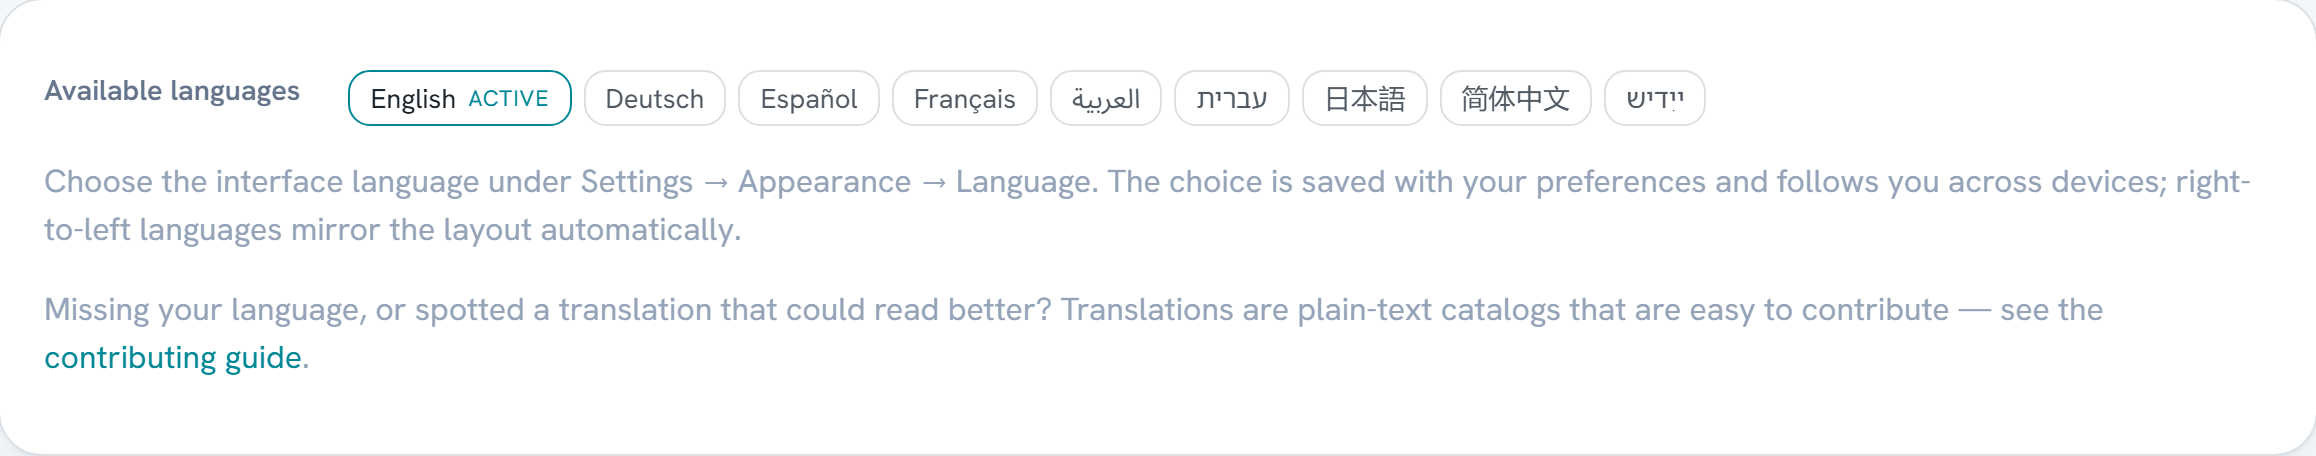
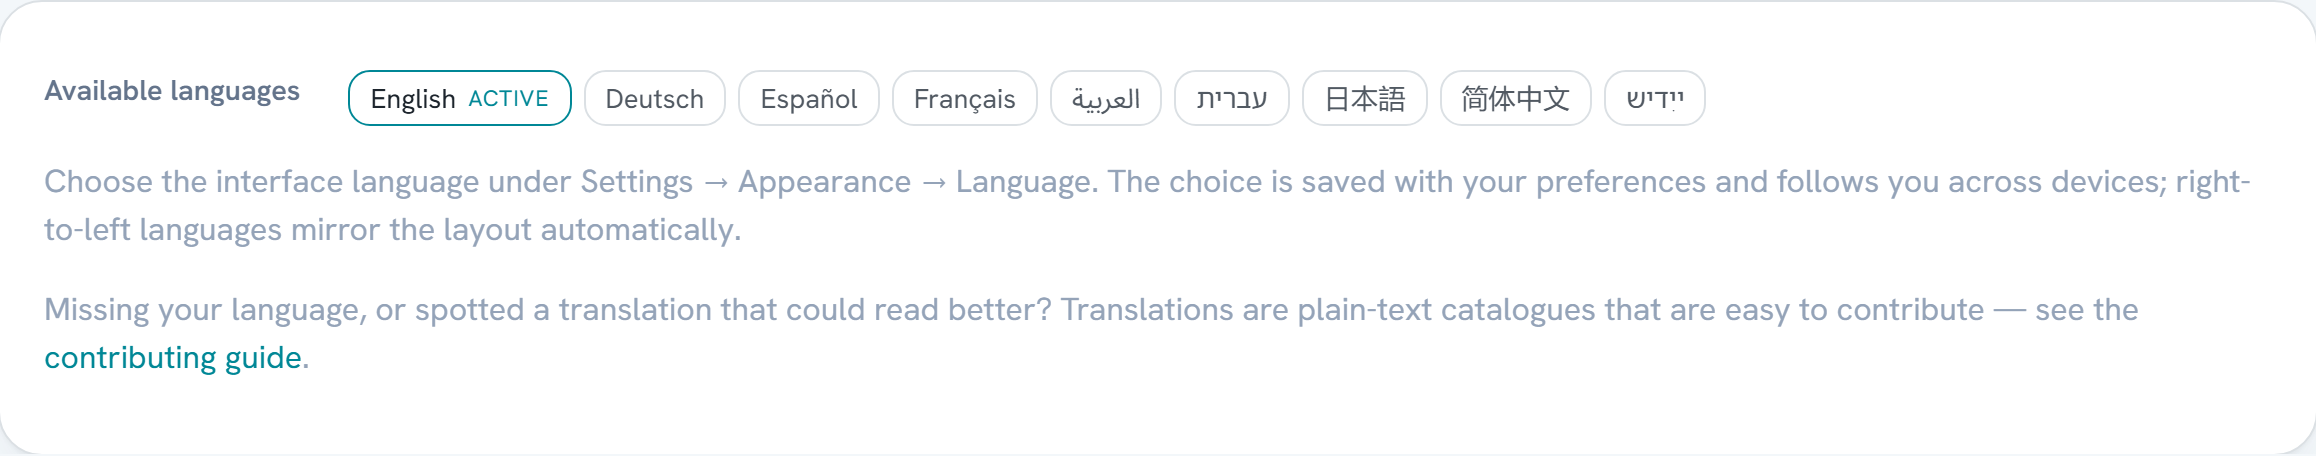
fix(webui): use British spelling in the English catalogue
The English catalogue mixed spellings: "Accent colour" and "Power centre"
sat beside "Power centers". The family's source spelling is British
English, so the remaining American forms in en.js are respelt:

- diag.power_centers: Power centers -> Power centres
- diag.serial_port_utilization / diag.bandwidth_utilization:
  Utilization -> Utilisation
- diag.deserialize: Deserialize -> Deserialise
- about.language_contribute_html: catalogs -> catalogues

No other visible text in en.js or index.html used an American form;
"Program" is the controller's own menu term and is left as the panel
shows it. The other catalogues are untouched (no meaning changed), so
key and placeholder parity is unaffected.

The convention is recorded in docs/i18n.md (Key conventions) and
CONTRIBUTING.md, and the About language-card screenshot, which shows the
respelt sentence, is regenerated.

Changed region(s): [[0.0, 0.0, 0.9948, 0.0307], [0.6528, 0.6447, 0.9326, 0.7061]]

diff --git a/assets/web/i18n/en.js b/assets/web/i18n/en.js
@@ -216,7 +216,7 @@
         'diag.passed': 'Passed',
         'diag.failed': 'Failed',
         'diag.auxiliaries': 'Auxiliaries',
-        'diag.power_centers': 'Power centers',
+        'diag.power_centers': 'Power centres',
         'diag.equipment': 'Equipment',
         'diag.status': 'Status',
         'diag.devices': 'Devices',
@@ -225,12 +225,12 @@
         'diag.enabled': 'Enabled',
         'diag.running': 'Running',
         'diag.connected': 'Connected',
-        'diag.serial_port_utilization': 'Serial Port Utilization',
+        'diag.serial_port_utilization': 'Serial Port Utilisation',
         'diag.read_total': 'Read Total',
         'diag.write_total': 'Write Total',
         'diag.read_1s_avg': 'Read 1s Avg',
         'diag.write_1s_avg': 'Write 1s Avg',
-        'diag.bandwidth_utilization': 'Bandwidth Utilization',
+        'diag.bandwidth_utilization': 'Bandwidth Utilisation',
         'diag.read': 'Read',
         'diag.write': 'Write',
         'diag.toggle_read_series': 'Toggle the Read series',
@@ -249,7 +249,7 @@
         'diag.waiting_data': 'Waiting for data...',
         'diag.message_errors': 'Message Errors',
         'diag.checksum': 'Checksum',
-        'diag.deserialize': 'Deserialize',
+        'diag.deserialize': 'Deserialise',
         'diag.invalid_packet': 'Invalid Packet',
         'diag.generator': 'Generator',
         'diag.overlapping': 'Overlapping',
@@ -761,7 +761,7 @@
         'about.available_languages': 'Available languages',
         'about.lang_active': 'Active',
         'about.language_how': 'Choose the interface language under {settings} → {appearance} → {language}. The choice is saved with your preferences and follows you across devices; right-to-left languages mirror the layout automatically.',
-        'about.language_contribute_html': 'Missing your language, or spotted a translation that could read better? Translations are plain-text catalogs that are easy to contribute — see the <a href="https://iainchesworthlabs.github.io/aqualink-automate/CONTRIBUTING/#contributing-translations" target="_blank" rel="noopener noreferrer">contributing guide</a>.',
+        'about.language_contribute_html': 'Missing your language, or spotted a translation that could read better? Translations are plain-text catalogues that are easy to contribute — see the <a href="https://iainchesworthlabs.github.io/aqualink-automate/CONTRIBUTING/#contributing-translations" target="_blank" rel="noopener noreferrer">contributing guide</a>.',
         'about.copyright': 'Copyright',
         'about.licence': 'Licence',
         'about.source_code': 'Source code',

diff --git a/CHANGELOG.md b/CHANGELOG.md
@@ -14,6 +14,10 @@ See [docs/releasing.md](docs/releasing.md) for how releases and version numbers 
 
 - **The About page now states the licence and copyright, and lists everything the web UI includes from other projects.** About shows the application's licence (GNU General Public License v3.0, naming `LICENSE.txt`, with a link to the source code) and its copyright line, and a new **Licences** section lists the bundled fonts (Bricolage Grotesque, Hanken Grotesk, Noto Sans Arabic, Noto Sans Hebrew), the vendored scripts (Alpine.js, Chart.js, chartjs-adapter-date-fns with the date-fns it bundles, QRCode.js) and the Feather icon paths, each with its version, copyright line and licence, and the full SIL Open Font License and MIT texts one click away. The list is rendered from a single data file, `assets/web/scripts/config/third-party-notices.js`, and an e2e test fails if a vendored file or declared font family has no entry. The new strings are machine-drafted in the eight non-English catalogues. See [docs/usage-and-api.md](docs/usage-and-api.md#about-licence-and-third-party-notices).
 
+### Changed
+
+- **The English source text uses British spelling throughout.** "Power centers", "catalogs", "Deserialize" and "Utilization" (Serial Port and Bandwidth) are now "Power centres", "catalogues", "Deserialise" and "Utilisation", matching the "colour" and "centre" already used elsewhere in the catalogue. The other catalogues are unchanged. See [docs/i18n.md](docs/i18n.md#key-conventions).
+
 ## [0.17.0-beta.1] - 2026-10-13
 
 ### Added

diff --git a/docs/i18n.md b/docs/i18n.md
@@ -114,6 +114,12 @@ in `fonts.css` has no entry.
   `about.*`, plus shared `common.*`, `status.*`, `cmd.*`, `alert.*`,
   `toast.*`, `time.*`, `tier.*`, `chem.*`, `swg_health.*`, `swg_reason.*`,
   `day.*`.
+- **English source text is written in British English** — "colour", "centre",
+  "licence" (noun), "catalogue", "-ise"/"-isation" — the spelling the
+  sibling projects use, so the app reads as one voice. A device's own
+  vocabulary is not respelt: "Program" is the controller's menu term and stays
+  as the panel shows it. Respelling an English value does not change its
+  meaning, so the other catalogues are left alone.
 - Placeholders are `{name}` and are substituted by `t()`; never rebuild
   sentences by string concatenation — word order differs across languages.
 - **Number-typed** placeholder values are rendered with `Intl.NumberFormat`

diff --git a/docs/CONTRIBUTING.md b/docs/CONTRIBUTING.md
@@ -255,6 +255,7 @@ Rules — CI enforces the structural ones:
 - Plural keys carry CLDR category suffixes (`.one`, `.other`); translate each form per your language's plural rules, and do not add or remove suffixes.
 - Leave technical tokens untranslated: product names (AquaLink, Home Assistant, MQTT, Matter), protocol terms (RS-485, WebSocket), wire enum values quoted inside error text, and the built-in `Guest` group name where it names that group.
 - Match the file's existing tone and terminology — each catalog keeps a consistent register (e.g. German uses Sie-form; French uses the typographic apostrophe).
+- English (`en.js`) is the source text and is written in British English ("colour", "centre", "licence", "organise"); see [docs/i18n.md](i18n.md#key-conventions).
 
 Verify before pushing:
 
